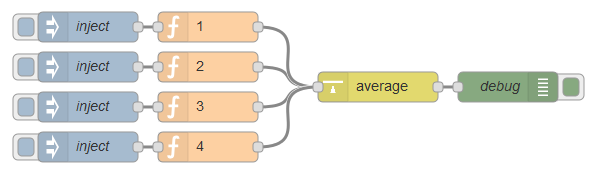
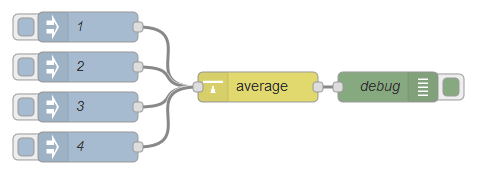
0.1.3 - extended readme - updated example flow

Changed region(s): [[0.0, 0.0581, 0.9979, 0.9593]]

diff --git a/readme.md b/readme.md
@@ -45,7 +45,7 @@ Simple example showing how to calculate and average of static values.
 ![example.png](./doc/example.png)
 
 ```JSON
-[{"id":"b022f03f.da047","type":"average","z":"470977d9.9fb538","name":"","x":380,"y":100,"wires":[["5a8eea2a.b67d3c"]]},{"id":"5a8eea2a.b67d3c","type":"debug","z":"470977d9.9fb538","name":"debug","active":true,"console":"false","complete":"payload","x":510,"y":100,"wires":[]},{"id":"c79942e7.6ae498","type":"inject","z":"470977d9.9fb538","name":"inject","topic":"","payload":"","payloadType":"date","repeat":"","crontab":"","once":false,"x":90,"y":40,"wires":[["9e21e8a4.2b5008"]]},{"id":"5b6c2de0.a35dc4","type":"inject","z":"470977d9.9fb538","name":"inject","topic":"","payload":"","payloadType":"date","repeat":"","crontab":"","once":false,"x":90,"y":80,"wires":[["3b773c9e.3ca9e4"]]},{"id":"689a005a.9f41b8","type":"inject","z":"470977d9.9fb538","name":"inject","topic":"","payload":"","payloadType":"date","repeat":"","crontab":"","once":false,"x":90,"y":120,"wires":[["982f1441.062f68"]]},{"id":"3b773c9e.3ca9e4","type":"function","z":"470977d9.9fb538","name":"2","func":"return {\n    topic: \"topic_two\",\n    payload: 2\n};","outputs":1,"noerr":0,"x":210,"y":80,"wires":[["b022f03f.da047"]]},{"id":"9e21e8a4.2b5008","type":"function","z":"470977d9.9fb538","name":"1","func":"return {\n    topic: \"topic_one\",\n    payload: 1\n};","outputs":1,"noerr":0,"x":210,"y":40,"wires":[["b022f03f.da047"]]},{"id":"982f1441.062f68","type":"function","z":"470977d9.9fb538","name":"3","func":"return {\n    topic: \"topic_three\",\n    payload: 3\n};","outputs":1,"noerr":0,"x":210,"y":120,"wires":[["b022f03f.da047"]]},{"id":"4b264eb1.263c88","type":"inject","z":"470977d9.9fb538","name":"inject","topic":"","payload":"","payloadType":"date","repeat":"","crontab":"","once":false,"x":90,"y":160,"wires":[["907f77f5.8236f"]]},{"id":"907f77f5.8236f","type":"function","z":"470977d9.9fb538","name":"4","func":"return {\n    topic: \"topic_four\",\n    payload: 4\n};","outputs":1,"noerr":0,"x":210,"y":160,"wires":[["b022f03f.da047"]]}]
+[{"id":"b022f03f.da047","type":"average","z":"470977d9.9fb538","name":"","x":680,"y":240,"wires":[["5a8eea2a.b67d3c"]]},{"id":"5a8eea2a.b67d3c","type":"debug","z":"470977d9.9fb538","name":"debug","active":true,"console":"false","complete":"payload","x":810,"y":240,"wires":[]},{"id":"c79942e7.6ae498","type":"inject","z":"470977d9.9fb538","name":"1","topic":"name_one","payload":"1","payloadType":"num","repeat":"","crontab":"","once":false,"x":510,"y":180,"wires":[["b022f03f.da047"]]},{"id":"5b6c2de0.a35dc4","type":"inject","z":"470977d9.9fb538","name":"2","topic":"name_two","payload":"2","payloadType":"num","repeat":"","crontab":"","once":false,"x":510,"y":220,"wires":[["b022f03f.da047"]]},{"id":"689a005a.9f41b8","type":"inject","z":"470977d9.9fb538","name":"3","topic":"name_three","payload":"3","payloadType":"num","repeat":"","crontab":"","once":false,"x":510,"y":260,"wires":[["b022f03f.da047"]]},{"id":"4b264eb1.263c88","type":"inject","z":"470977d9.9fb538","name":"4","topic":"name_four","payload":"4","payloadType":"num","repeat":"","crontab":"","once":false,"x":510,"y":300,"wires":[["b022f03f.da047"]]}]
 ```
 
 
